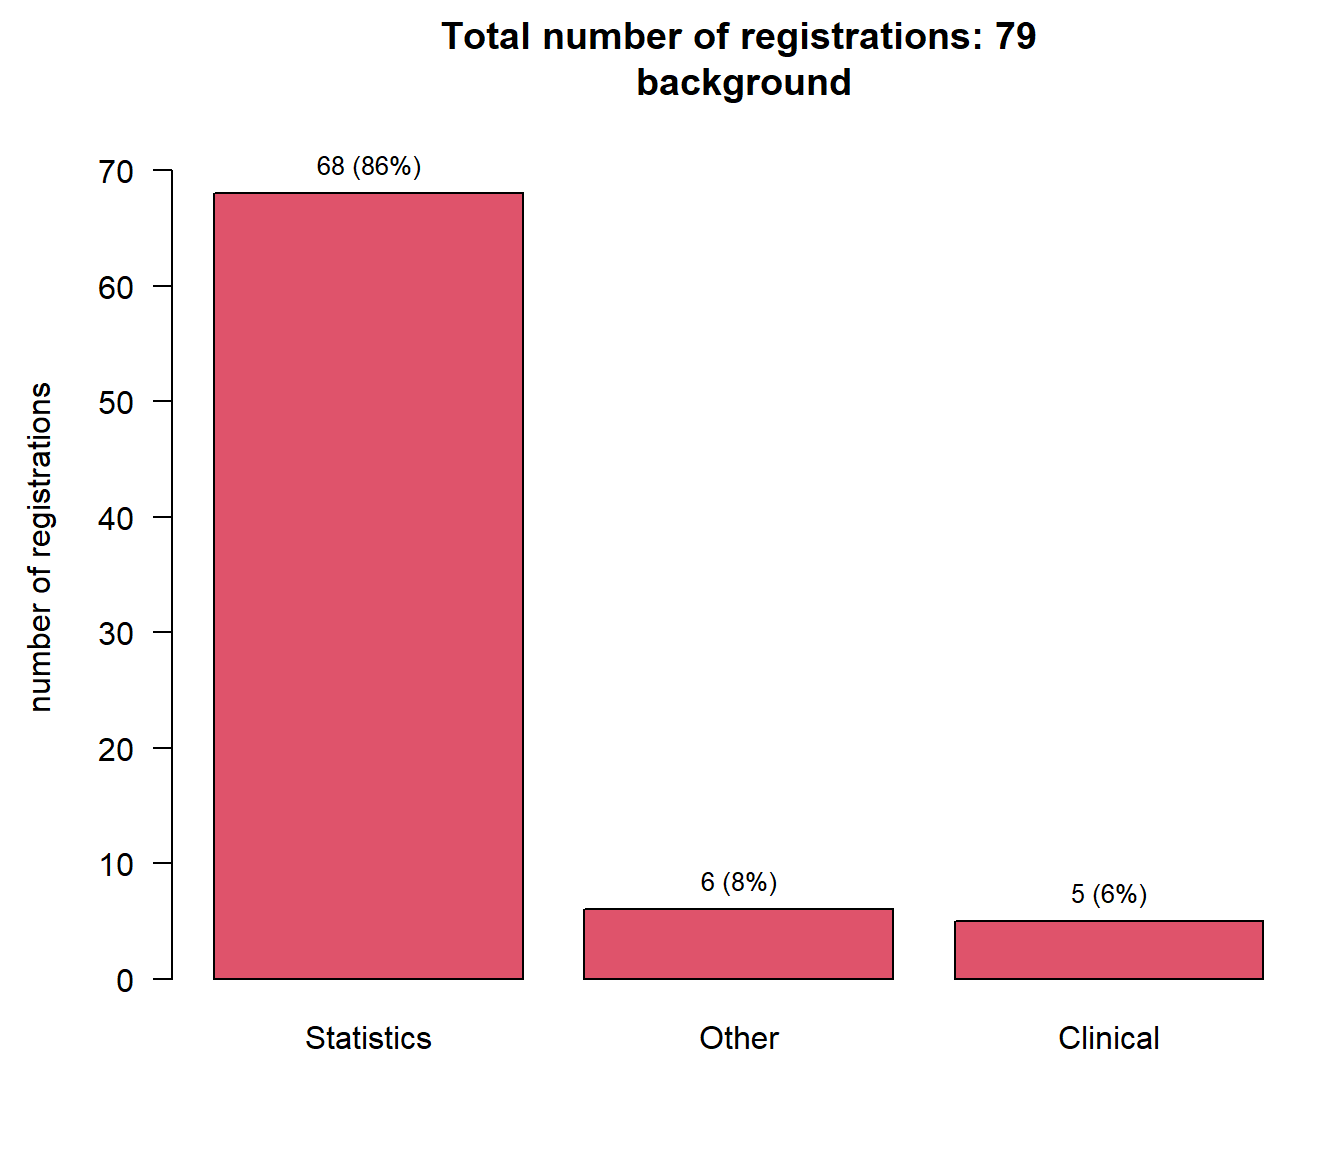
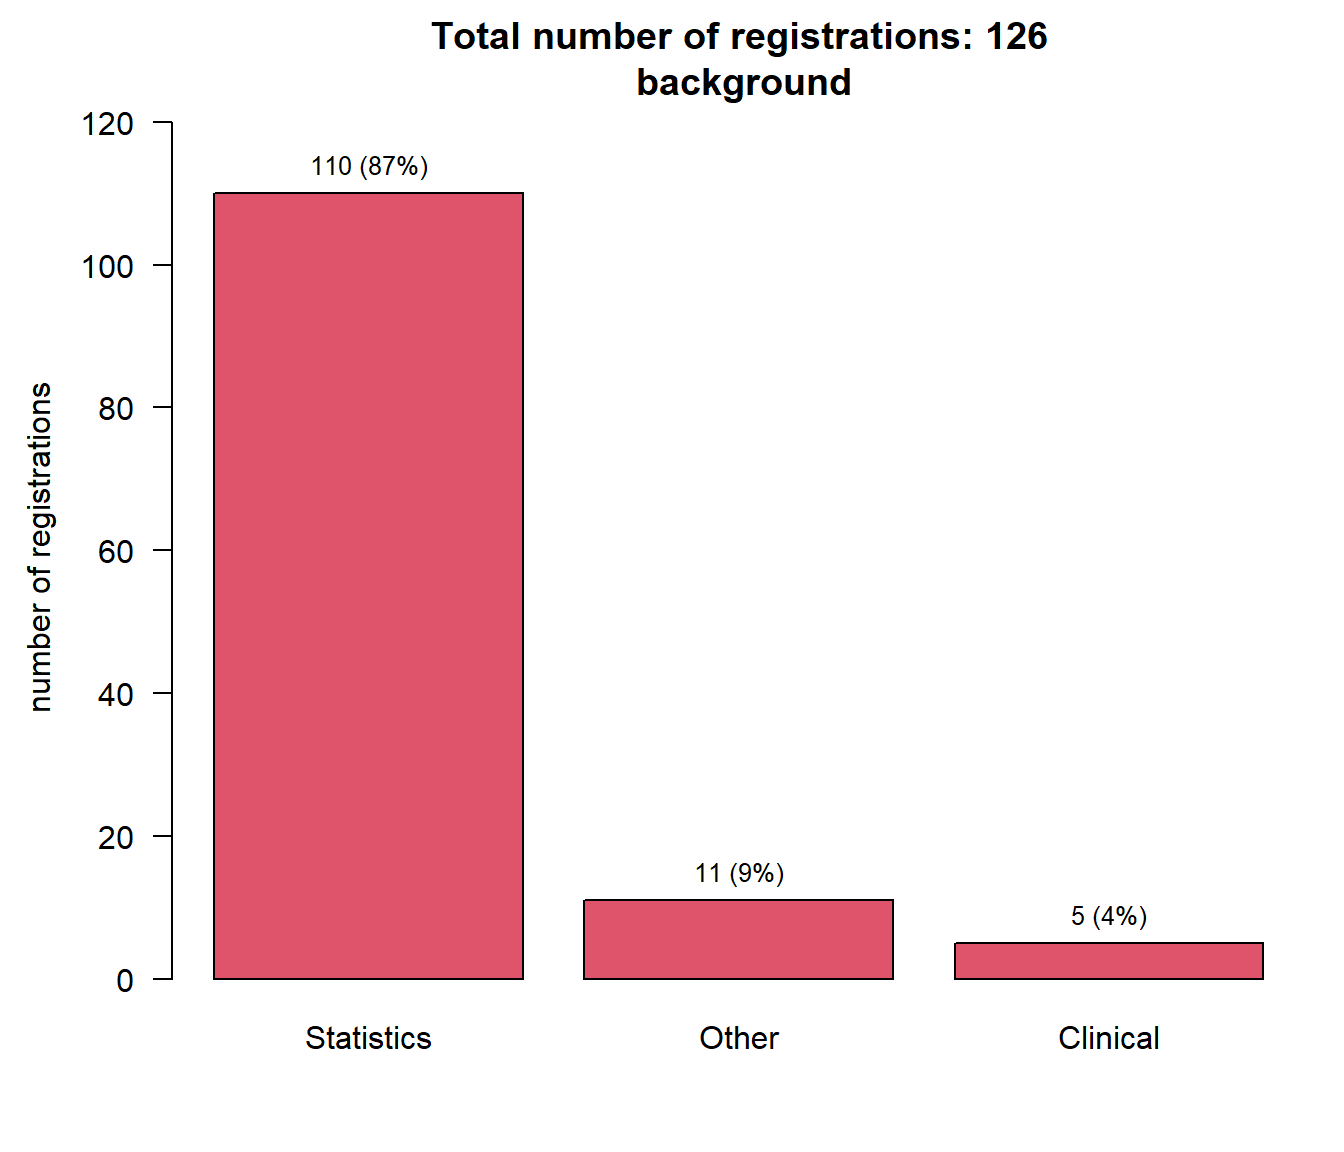
update+

diff --git a/docs/upcoming/20250319/analysis_innovation.html b/docs/upcoming/20250319/analysis_innovation.html
@@ -7,7 +7,7 @@
 <meta name="viewport" content="width=device-width, initial-scale=1.0, user-scalable=yes">
 
 <meta name="author" content="Kaspar Rufibach">
-<meta name="dcterms.date" content="2025-02-13">
+<meta name="dcterms.date" content="2025-02-14">
 
 <title>Basel Biometrics Society - BBS seminar 19th March 2025: analysis of registrations</title>
 <style>
@@ -175,6 +175,7 @@ ul.task-list li input[type="checkbox"] {
   <li><a href="#registrations-by-countries" id="toc-registrations-by-countries" class="nav-link" data-scroll-target="#registrations-by-countries">Registrations by countries</a></li>
   <li><a href="#registrations-by-countries---map" id="toc-registrations-by-countries---map" class="nav-link" data-scroll-target="#registrations-by-countries---map">Registrations by countries - map</a></li>
   <li><a href="#registrations-by-geographic-region" id="toc-registrations-by-geographic-region" class="nav-link" data-scroll-target="#registrations-by-geographic-region">Registrations by geographic region</a></li>
+  <li><a href="#questions-to-the-panel" id="toc-questions-to-the-panel" class="nav-link" data-scroll-target="#questions-to-the-panel">Questions to the panel</a></li>
   </ul>
 </nav>
     </div>
@@ -200,7 +201,7 @@ ul.task-list li input[type="checkbox"] {
     <div>
     <div class="quarto-title-meta-heading">Published</div>
     <div class="quarto-title-meta-contents">
-      <p class="date">February 13, 2025</p>
+      <p class="date">February 14, 2025</p>
     </div>
   </div>
   
@@ -212,7 +213,7 @@ ul.task-list li input[type="checkbox"] {
 
 <section id="data-status" class="level1">
 <h1>Data status</h1>
-<p>Data as of 2025-02-13 at 07:08:28.</p>
+<p>Data as of 2025-02-14 at 07:29:36.</p>
 </section>
 <section id="registrations-by-type-of-institution" class="level1">
 <h1>Registrations by type of institution</h1>
@@ -299,6 +300,77 @@ ul.task-list li input[type="checkbox"] {
 </figure>
 </div>
 </div>
+</div>
+</section>
+<section id="questions-to-the-panel" class="level1">
+<h1>Questions to the panel</h1>
+<div class="cell-output-display">
+<table class="table">
+<colgroup>
+<col style="width: 2%">
+<col style="width: 3%">
+<col style="width: 94%">
+</colgroup>
+<thead>
+<tr class="header">
+<th style="text-align: left;">first</th>
+<th style="text-align: left;">last</th>
+<th style="text-align: left;">question</th>
+</tr>
+</thead>
+<tbody>
+<tr class="odd">
+<td style="text-align: left;">Jenny</td>
+<td style="text-align: left;">Devenport</td>
+<td style="text-align: left;">The agenda looks very good and emphasizes getting clinicians / nonstatisticians excited. While indeed a formidable challenge in the route to change, we also experience headwinds from our own function–who perhaps struggle to separate seizing opportunities with debating enhancements. In other words, how can we do a better job as statisticians to show up as a united front so that our clinicians don’t see methods as simply a matter of opinion?</td>
+</tr>
+<tr class="even">
+<td style="text-align: left;">Juergen</td>
+<td style="text-align: left;">Scheuenpflug</td>
+<td style="text-align: left;">In which phase of drug development do you see the greatest need to innovate (e.g.&nbsp;FiH to PoC or PoC - MAA/ LCM? What are the most important barriers which prevent successful innovation and how to mitigate these?</td>
+</tr>
+<tr class="odd">
+<td style="text-align: left;">Stefan</td>
+<td style="text-align: left;">Englert</td>
+<td style="text-align: left;">What measures do you take to quantify and measure impact? Which metrics are used?</td>
+</tr>
+<tr class="even">
+<td style="text-align: left;">Emmanuel</td>
+<td style="text-align: left;">Zuber</td>
+<td style="text-align: left;">How to avoid the double trap of 1) falling in love with your innovation and 2) losing the passion for the adequate solution to the real problem ?</td>
+</tr>
+<tr class="odd">
+<td style="text-align: left;">Linard</td>
+<td style="text-align: left;">Hoessly</td>
+<td style="text-align: left;">How do you deal with the subjectivity on methodological questions in many statistical areas?</td>
+</tr>
+<tr class="even">
+<td style="text-align: left;">Anne-Laure</td>
+<td style="text-align: left;">Boulesteix</td>
+<td style="text-align: left;">What could be the role of a phases classification system for methodological research as described in Heinze et al.&nbsp;(2024)? https://onlinelibrary.wiley.com/doi/full/10.1002/bimj.202200222</td>
+</tr>
+<tr class="odd">
+<td style="text-align: left;">Andisheh</td>
+<td style="text-align: left;">Bakhshi</td>
+<td style="text-align: left;">no</td>
+</tr>
+<tr class="even">
+<td style="text-align: left;">Jacob</td>
+<td style="text-align: left;">Stærk-Østergaard</td>
+<td style="text-align: left;">Can we improve collaboration across industry and academia to push novel statistical methods into acceptance from both regulators and clinicians, and if so how?</td>
+</tr>
+<tr class="odd">
+<td style="text-align: left;">Annesh</td>
+<td style="text-align: left;">Pal</td>
+<td style="text-align: left;">Coming from core academia, how can one apply Bayesian statistics in oncological studies? What path one can follow to create statistical innovations for detection or diagnosis of cancer? What are the interesting milestones already achieved in this direction and what are the possible directions of work for the future?</td>
+</tr>
+<tr class="even">
+<td style="text-align: left;">Susan</td>
+<td style="text-align: left;">Edwards</td>
+<td style="text-align: left;">How do you know when a new innovation’s benefit is great enough to make up for its (likely) added complexity or at least the hurdle of its unfamiliarity?</td>
+</tr>
+</tbody>
+</table>
 </div>
 
 

diff --git a/docs/talks/20191101/20191101_summary.html b/docs/talks/20191101/20191101_summary.html
@@ -7,7 +7,7 @@
 <meta name="viewport" content="width=device-width, initial-scale=1.0, user-scalable=yes">
 
 <meta name="author" content="Laurent Essioux, Dominik Heinzmann, Kaspar Rufibach, Marcel Wolbers">
-<meta name="dcterms.date" content="2025-02-13">
+<meta name="dcterms.date" content="2025-02-14">
 
 <title>Basel Biometrics Society - BBS seminar 1st November 2019: Predictive modelling, machine learning, and causality</title>
 <style>
@@ -206,7 +206,7 @@ ul.task-list li input[type="checkbox"] {
     <div>
     <div class="quarto-title-meta-heading">Published</div>
     <div class="quarto-title-meta-contents">
-      <p class="date">February 13, 2025</p>
+      <p class="date">February 14, 2025</p>
     </div>
   </div>
   
